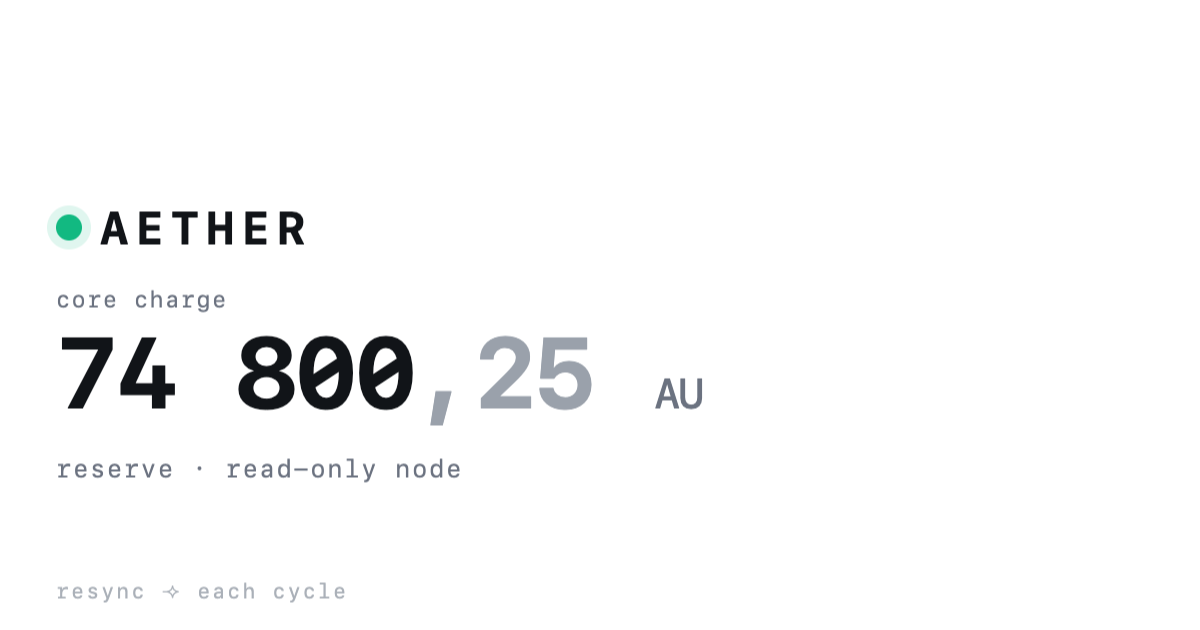
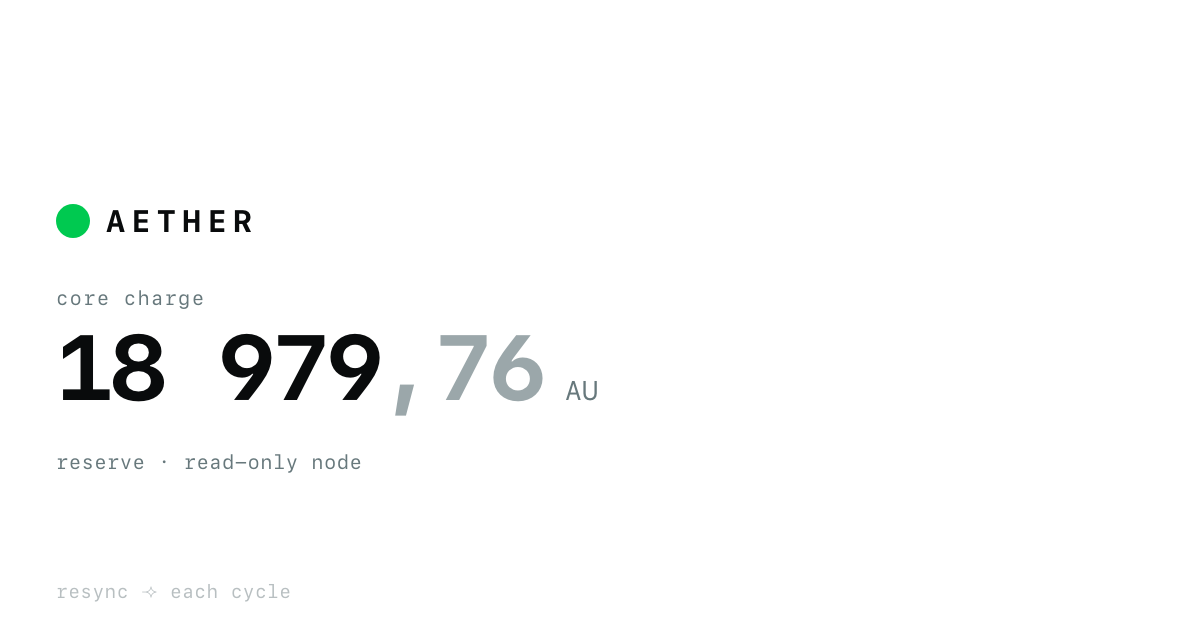
Share card regenerated from the live figure, plus its source
og.png had been frozen at the 11 Jul reading since 13 Jul. og-card.html now
renders it from data.js, so a resync is: update data.js, re-render, commit.

diff --git a/og-card.html b/og-card.html
@@ -1,0 +1,61 @@
+<!DOCTYPE html>
+<html lang="en">
+<!--
+  AETHER — share-card source. Not linked from any page; it exists only to render og.png.
+  The number is read live from data.js, so there is nothing to edit here: update data.js,
+  then re-render and commit both files.
+
+    cd <this folder>
+    "/Applications/Google Chrome.app/Contents/MacOS/Google Chrome" \
+      --headless --disable-gpu --force-color-profile=srgb --hide-scrollbars \
+      --virtual-time-budget=2000 --window-size=1200,630 \
+      --screenshot=og.png "file://$PWD/og-card.html"
+
+  og.png is a static PNG: whatever it shows is frozen until the next render. Regenerate it
+  whenever the anchor moves, or the share preview will quietly show an old balance.
+-->
+<head>
+<meta charset="utf-8">
+<style>
+  *{box-sizing:border-box}
+  html,body{margin:0}
+  body{
+    width:1200px; height:630px; background:#fff;
+    color:oklch(0.148 0.004 228.8);
+    font:13.5px/1.5 ui-monospace,SFMono-Regular,"SF Mono",Menlo,Consolas,"Liberation Mono",monospace;
+    -webkit-font-smoothing:antialiased; text-rendering:optimizeLegibility;
+    position:relative;
+  }
+  .card{position:absolute; left:56px; top:198px}
+  .brand{display:flex; align-items:center; gap:16px}
+  .dot{width:34px; height:34px; border-radius:50%; background:oklch(0.723 0.219 149.579)}
+  .brand h1{margin:0; font-size:31px; font-weight:700; letter-spacing:.20em}
+  .label{margin-top:38px; font-size:20px; letter-spacing:.06em; color:oklch(0.56 0.021 213.5)}
+  .now{margin-top:8px; font-size:92px; font-weight:700; letter-spacing:-.03em; line-height:1;
+       font-variant-numeric:tabular-nums; font-feature-settings:"tnum"; display:flex; align-items:baseline}
+  .now .dec{color:oklch(0.72 0.014 214.4)}
+  .now .cur{font-size:27px; font-weight:500; letter-spacing:0; margin-left:22px;
+            color:oklch(0.56 0.021 213.5)}
+  .sub{margin-top:34px; font-size:20px; letter-spacing:.02em; color:oklch(0.56 0.021 213.5)}
+  .foot{position:absolute; left:56px; top:578px; font-size:19px; letter-spacing:.02em;
+        color:oklch(0.80 0.008 214.4)}
+</style>
+</head>
+<body>
+  <div class="card">
+    <div class="brand"><span class="dot"></span><h1>AETHER</h1></div>
+    <div class="label">core charge</div>
+    <div class="now"><span id="int">—</span><span class="dec" id="dec"></span><span class="cur">AU</span></div>
+    <div class="sub">reserve · read-only node</div>
+  </div>
+  <div class="foot">resync ⟢ each cycle</div>
+
+<script src="data.js"></script>
+<script>
+  // same live estimate the pages show — snapshotted at render time
+  const parts = cz2(liveNow()).split(",");
+  document.getElementById("int").textContent = parts[0];
+  document.getElementById("dec").textContent = "," + parts[1];
+</script>
+</body>
+</html>
